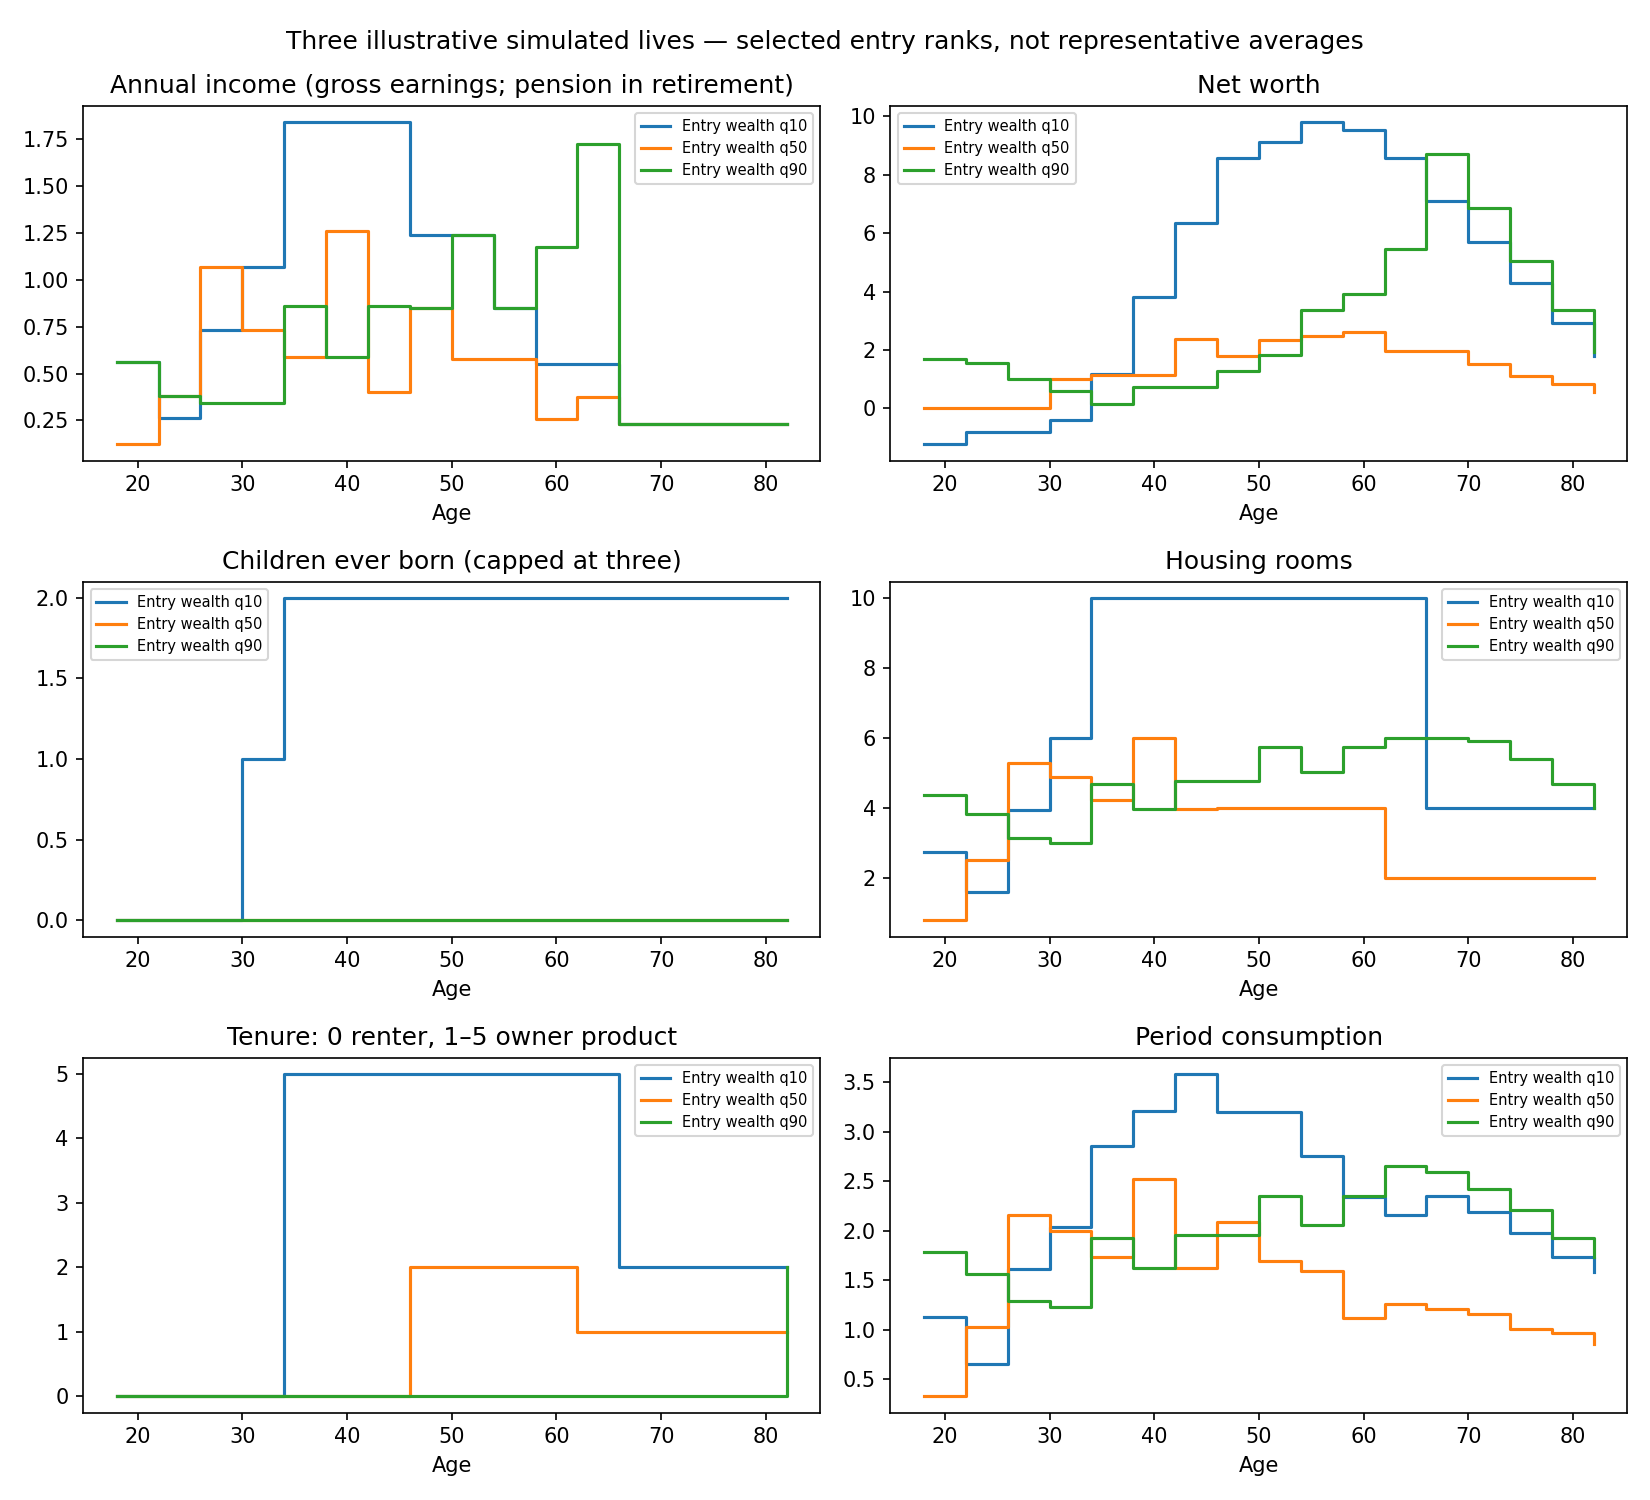
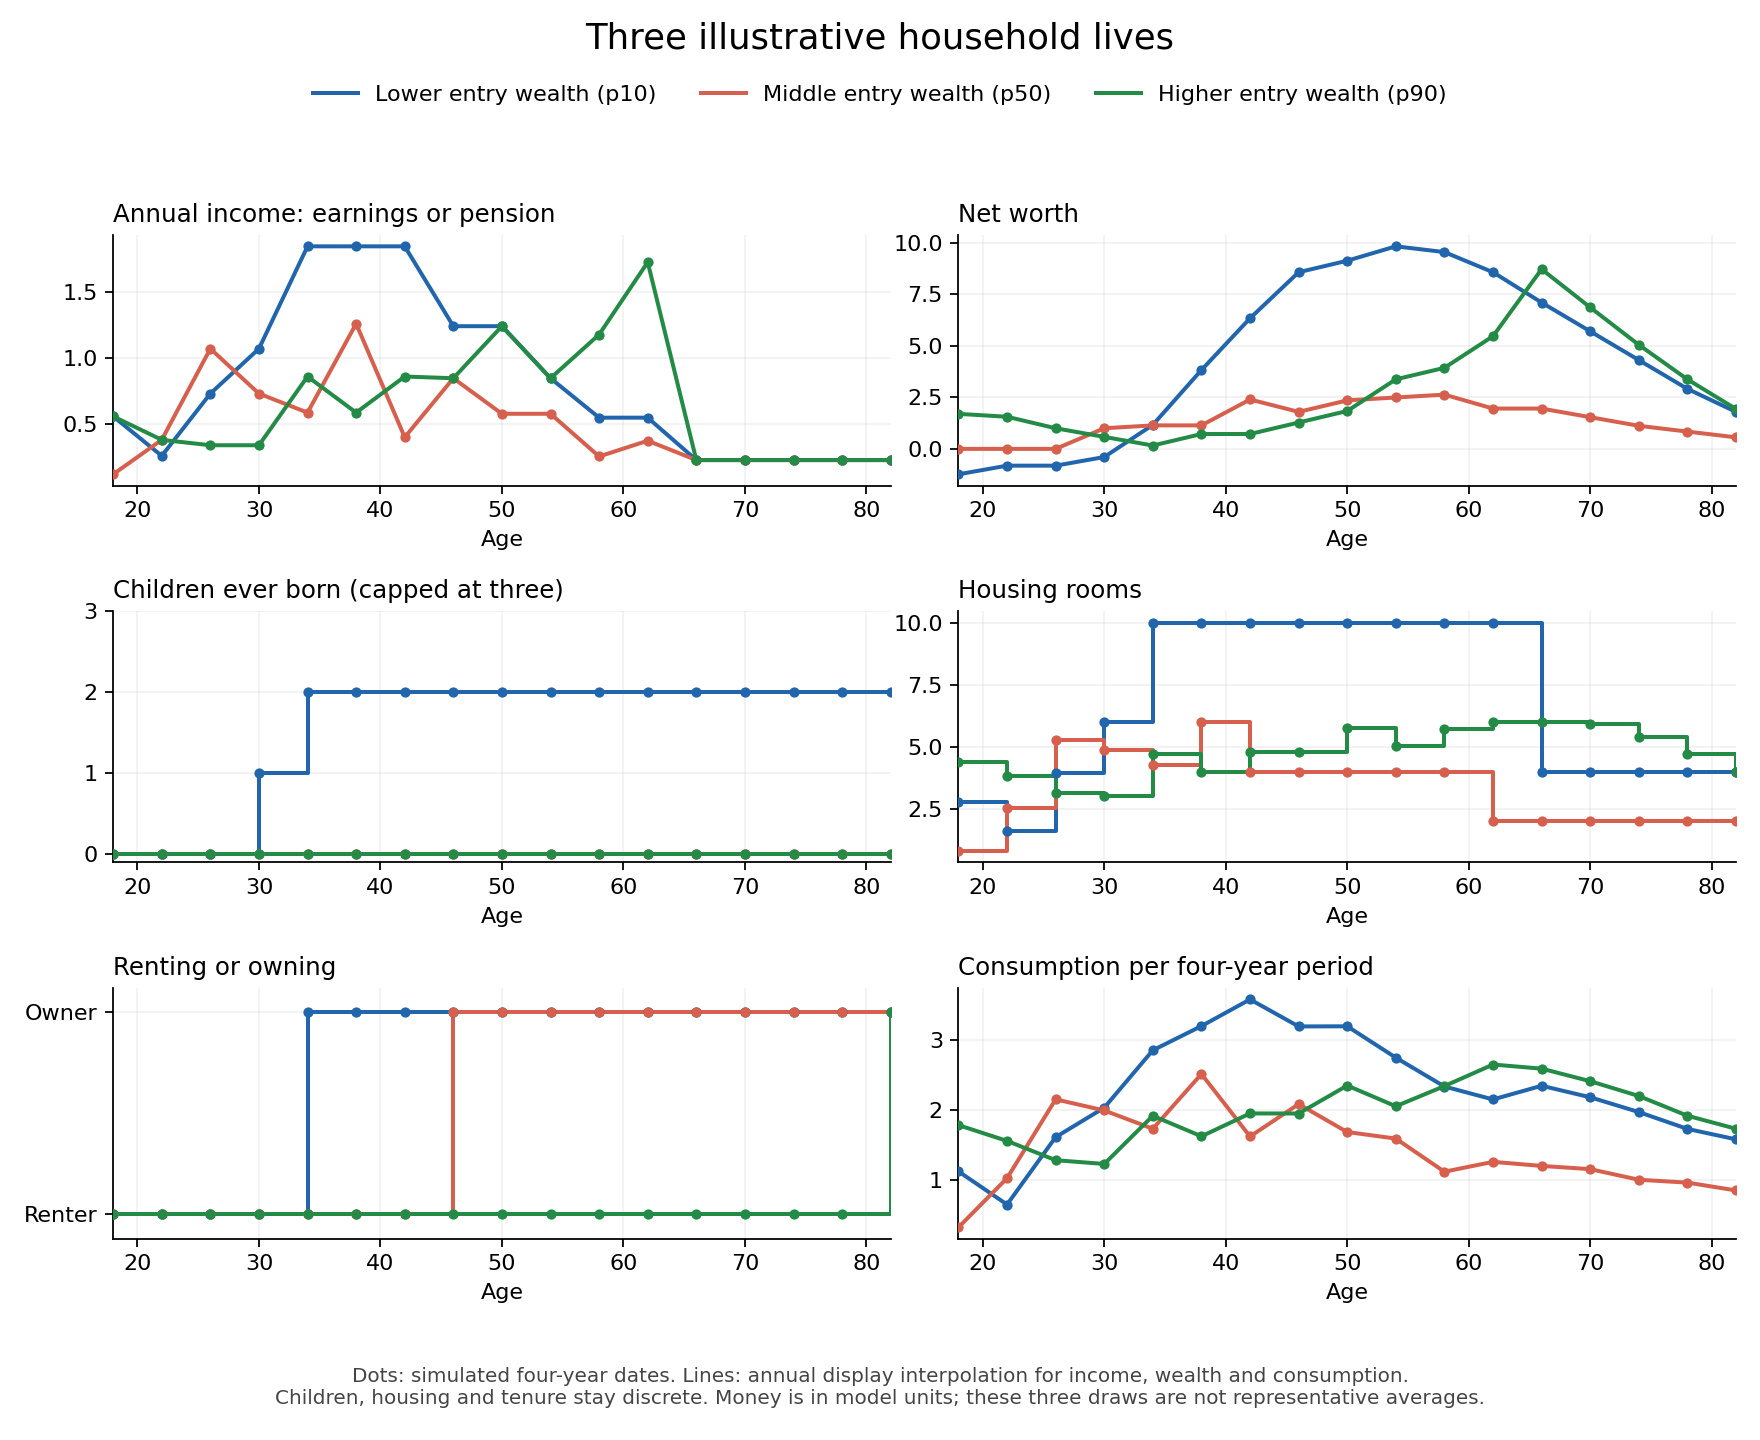
Clarify estate solvency and improve household life plots

diff --git a/code/model/tools/inspect_e5f_saved_households.py b/code/model/tools/inspect_e5f_saved_households.py
@@ -60,6 +60,60 @@ def sample_index(prob,rng):
     flat=np.asarray(prob).ravel(); assert np.min(flat)>=-1e-14 and abs(flat.sum()-1)<1e-9
     return np.unravel_index(rng.choice(flat.size,p=np.maximum(flat,0)/flat.sum()),prob.shape)
 
+def render_lives(rows,out):
+    """Annual display interpolation only; preserve discrete housing/family choices."""
+    import csv
+    import matplotlib.pyplot as plt
+    out=Path(out)
+    continuous=('annual_gross_income','net_worth','consumption')
+    discrete=('children_capped_three','housing_rooms','tenure')
+    annual=[]
+    fig,axs=plt.subplots(3,2,figsize=(11,9),sharex=True)
+    keys=['annual_gross_income','net_worth','children_capped_three','housing_rooms','tenure','consumption']
+    titles=['Annual income: earnings or pension','Net worth','Children ever born (capped at three)','Housing rooms','Renting or owning','Consumption per four-year period']
+    labels=['Lower entry wealth (p10)','Middle entry wealth (p50)','Higher entry wealth (p90)']
+    colors=['#2166ac','#d6604d','#238b45']
+    for a in range(1,4):
+        rr=sorted([r for r in rows if int(r['agent'])==a],key=lambda r:float(r['age']))
+        ages=np.array([float(r['age']) for r in rr]); years=np.arange(ages[0],ages[-1]+1)
+        indices=np.searchsorted(ages,years,side='right')-1
+        values={k:np.interp(years,ages,[float(r[k]) for r in rr]) for k in continuous}
+        values.update({k:np.array([float(r[k]) for r in rr])[indices] for k in discrete})
+        for i,age in enumerate(years):
+            annual.append(dict(agent=a,age=float(age),model_date=bool(age in ages),
+                               **{k:float(v[i]) for k,v in values.items()}))
+        for ax,key,title in zip(axs.ravel(),keys,titles):
+            raw=np.array([float(r[key]) for r in rr]); y=values[key]
+            if key=='tenure':raw=(raw>0).astype(float);y=(y>0).astype(float)
+            if key in continuous:
+                ax.plot(years,y,color=colors[a-1],linewidth=1.8,label=labels[a-1])
+            else:
+                ax.step(years,y,where='post',color=colors[a-1],linewidth=1.8,label=labels[a-1])
+            ax.scatter(ages,raw,s=13,color=colors[a-1],zorder=3)
+            ax.set_title(title,fontsize=11,loc='left');ax.grid(alpha=.16)
+            ax.spines[['top','right']].set_visible(False)
+            ax.set_xticks([20,30,40,50,60,70,80]);ax.tick_params(labelbottom=True)
+            ax.set_xlim(18,82);ax.set_xlabel('Age')
+    axs[1,0].set_yticks([0,1,2,3]);axs[2,0].set_yticks([0,1],['Renter','Owner'])
+    axs[2,0].set_ylim(-.12,1.12)
+    handles,_=axs[0,0].get_legend_handles_labels()
+    fig.legend(handles,labels,loc='upper center',bbox_to_anchor=(.5,.955),ncol=3,frameon=False)
+    fig.suptitle('Three illustrative household lives',fontsize=16,y=.985)
+    fig.text(.5,.025,'Dots: simulated four-year dates. Lines: annual display interpolation for income, wealth and consumption.\n'
+             'Children, housing and tenure stay discrete. Money is in model units; these three draws are not representative averages.',
+             ha='center',fontsize=9,color='#444444')
+    fig.tight_layout(rect=[0,.075,1,.915]);fig.savefig(out/'three_household_lives.png',dpi=160);plt.close(fig)
+    for name,selected in [('three_household_lives_annual_display.csv',annual),
+                          ('three_household_lives_selected_ages.csv',[r for r in annual if r['age'] in (20,30,40,50,60,70,80)])]:
+        with (out/name).open('w',newline='') as stream:
+            writer=csv.DictWriter(stream,fieldnames=selected[0]);writer.writeheader();writer.writerows(selected)
+    metadata=dict(status='display_only',new_model_solves=0,new_simulations=0,
+                  continuous_interpolation='linear between saved four-year observations',
+                  discrete_display='left-constant children, housing and tenure at saved event dates',
+                  selected_ages=[20,30,40,50,60,70,80],
+                  original_csv_sha256=hashlib.sha256((out/'three_household_lives.csv').read_bytes()).hexdigest())
+    (out/'display_interpolation.json').write_text(json.dumps(metadata,indent=2)+'\n')
+
 def simulate(packet,rt,out):
     import csv, inspect
     import matplotlib.pyplot as plt
@@ -94,16 +148,17 @@ def simulate(packet,rt,out):
             cohort=zero.copy();cohort[realised]=1;state=sample_index(advance(cohort,j,True),rng)
     with (out/'three_household_lives.csv').open('w') as f:
         w=csv.DictWriter(f,fieldnames=rows[0]);w.writeheader();w.writerows(rows)
-    fig,axs=plt.subplots(3,2,figsize=(11,10))
-    for ax,key,title in zip(axs.ravel(),['annual_gross_income','net_worth','children_capped_three','housing_rooms','tenure','consumption'],['Annual income (gross earnings; pension in retirement)','Net worth','Children ever born (capped at three)','Housing rooms','Tenure: 0 renter, 1–5 owner product','Period consumption']):
-        for a in range(1,4):
-            rr=[r for r in rows if r['agent']==a];ax.step([r['age'] for r in rr],[r[key] for r in rr],where='post',label=f'Entry wealth q{[10,50,90][a-1]}')
-        ax.set_title(title);ax.set_xlabel('Age');ax.legend(fontsize=7)
-    fig.suptitle('Three illustrative simulated lives — selected entry ranks, not representative averages');fig.tight_layout();fig.savefig(out/'three_household_lives.png',dpi=150);plt.close(fig)
+    render_lives(rows,out)
     receipt=dict(seed=20260927,agents=3,native_solves=0,transition_factorization_l1=errors,fertility_function=inspect.getsourcefile(cal.apply_fertility),forward_function=inspect.getsourcefile(model.advance_cohort_one_period_markov_income),description='Native fertility draw; native current-choice realization; native saving/income/child-aging kernel conditional on realized current state; survival sampled separately. Same interpolation lotteries as KFE. Entry wealth ranks selected, remaining entry states drawn conditionally. Nonrepresentative examples; period grid retained, no interpolation to annual histories.',row_count=len(rows))
     (out/'simulation_verification.json').write_text(json.dumps(receipt,indent=2)+'\n');return receipt
 
 if __name__=='__main__':
-    p=argparse.ArgumentParser(); p.add_argument('--contract',type=Path,required=True);p.add_argument('--case',type=Path,required=True);p.add_argument('--output',type=Path,required=True)
-    a=p.parse_args(); packet,rt,r=load(a.contract,a.case,a.output)
-    print(audit(packet,rt,a.output));print(simulate(packet,rt,a.output))
+    p=argparse.ArgumentParser(); p.add_argument('--contract',type=Path);p.add_argument('--case',type=Path);p.add_argument('--output',type=Path,required=True);p.add_argument('--plot-only',action='store_true')
+    a=p.parse_args()
+    if a.plot_only:
+        import csv
+        with (a.output/'three_household_lives.csv').open() as stream:render_lives(list(csv.DictReader(stream)),a.output)
+    else:
+        if not a.contract or not a.case:p.error('--contract and --case are required unless --plot-only')
+        packet,rt,r=load(a.contract,a.case,a.output)
+        print(audit(packet,rt,a.output));print(simulate(packet,rt,a.output))

diff --git a/output/model/daytime_calibration_20260927/households/README.md b/output/model/daytime_calibration_20260927/households/README.md
@@ -32,7 +32,11 @@ wealth grid nodes at cumulative entry ranks 10%, 50%, 90%, then remaining entry
 states sampled from their conditional distribution. They are illustrative,
 not representative averages or handpicked outcomes. All three happened to
 survive to the terminal age in this fixed draw. The model's four-year age grid
-is retained. Income is annual gross earnings while working and pension in
+is retained in the source CSV. The updated display interpolates financial
+series linearly between those dates, with dots marking the actual simulated
+observations. Housing, children and tenure remain step functions. Age markers
+and a separate table at ages 20, 30, 40, 50, 60, 70 and 80 make comparisons easier. These are
+display interpolations, not additional annual model simulations. Income is annual gross earnings while working and pension in
 retirement; consumption is per model period. Financial quantities are model
 units. Children are capped at three (last state represents three or more).
 
@@ -60,3 +64,14 @@ code/model/.venv/bin/python code/model/tools/inspect_e5f_saved_households.py \
 --case tmp/e5f_overnight_local_20260927/portable/night_launch_v4/primary_continuation/search/de_0093/case \
 --output output/model/daytime_calibration_20260927/households
 ```
+
+Display-only regeneration (no checkpoint loading or simulation):
+
+```sh
+MPLBACKEND=Agg code/model/.venv/bin/python code/model/tools/inspect_e5f_saved_households.py --plot-only --output output/model/daytime_calibration_20260927/households
+```
+
+`three_household_lives_annual_display.csv` and
+`three_household_lives_selected_ages.csv` contain the interpolated display
+values. `display_interpolation.json` records their interpretation and the
+unchanged source CSV hash. All 51 original observations match exactly.

diff --git a/CALIBRATION_STATUS.md b/CALIBRATION_STATUS.md
@@ -56,6 +56,23 @@ new search/Jacobian deadlines and pending benchmark definition recorded. It
 will not restart the completed overnight schedule.
 
 
+### Estate clarification and life-plot display update
+
+The selected baseline estate ledger has zero gross negative estates, zero net
+negative estates and zero death mass with negative estates. The unresolved
+creditor rule is therefore a counterfactual concern when credit limits are
+removed, not a realized negative-estate shortfall in this baseline. Positive net
+estates fund entrants; residual positive estates are sunk as previously chosen.
+
+At the author's request, the same three household draws now have clear decade
+age ticks and linear display interpolation for income, wealth and consumption.
+Dots identify the unchanged four-year simulated observations. Children, housing
+and tenure stay discrete; binary tenure labels replace owner-product codes.
+Annual-display and selected-age CSVs are explicitly interpolated illustrations,
+not extra model periods. All 51 original observations and the source CSV bytes
+are unchanged. Updated plot visually inspected; no new model solve/simulation.
+
+
 ## September 27, 07:27 EDT - final two-page memo delivered; supervision paused
 
 All numerical work finished by 07:02 EDT. The final memo is
